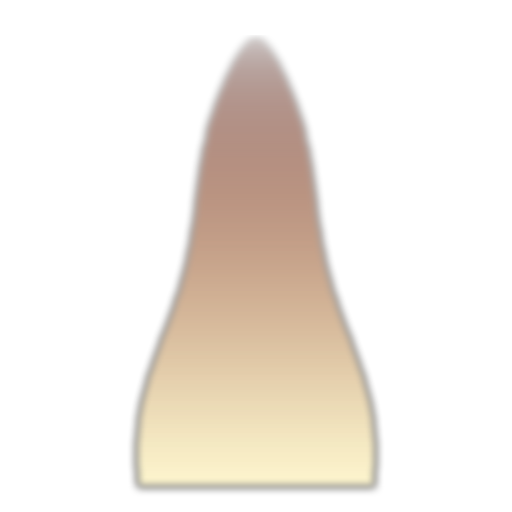
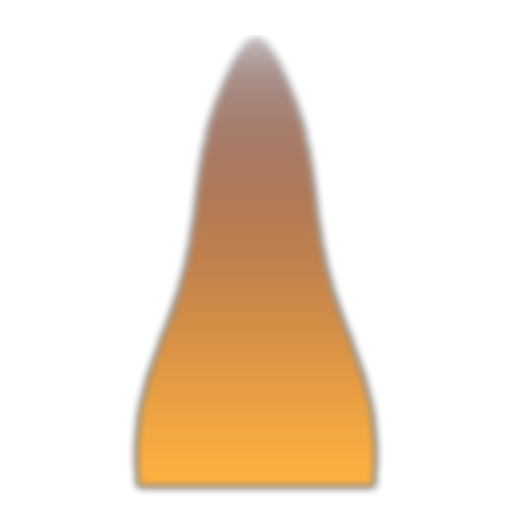
M1：关掉旧的柔光 sprite，只保留贴图火焰

Changed region(s): [[0.25, 0.25, 0.75, 0.9688]]

diff --git a/src/lib/flame.js b/src/lib/flame.js
@@ -5,7 +5,7 @@
 import { Sprite, SpriteMaterial, TextureLoader } from 'three'
 
 export function createFlame() {
-  const tex = new TextureLoader().load(`${import.meta.env.BASE_URL}flame.png`)
+  const tex = new TextureLoader().load(`${import.meta.env.BASE_URL}flame.png?v=4`)
   const material = new SpriteMaterial({
     map: tex,
     transparent: true,

diff --git a/src/lib/routeLine.js b/src/lib/routeLine.js
@@ -601,3 +601,4 @@ export function createRouteLine(globe, nodes) {
 }
 
 
+
